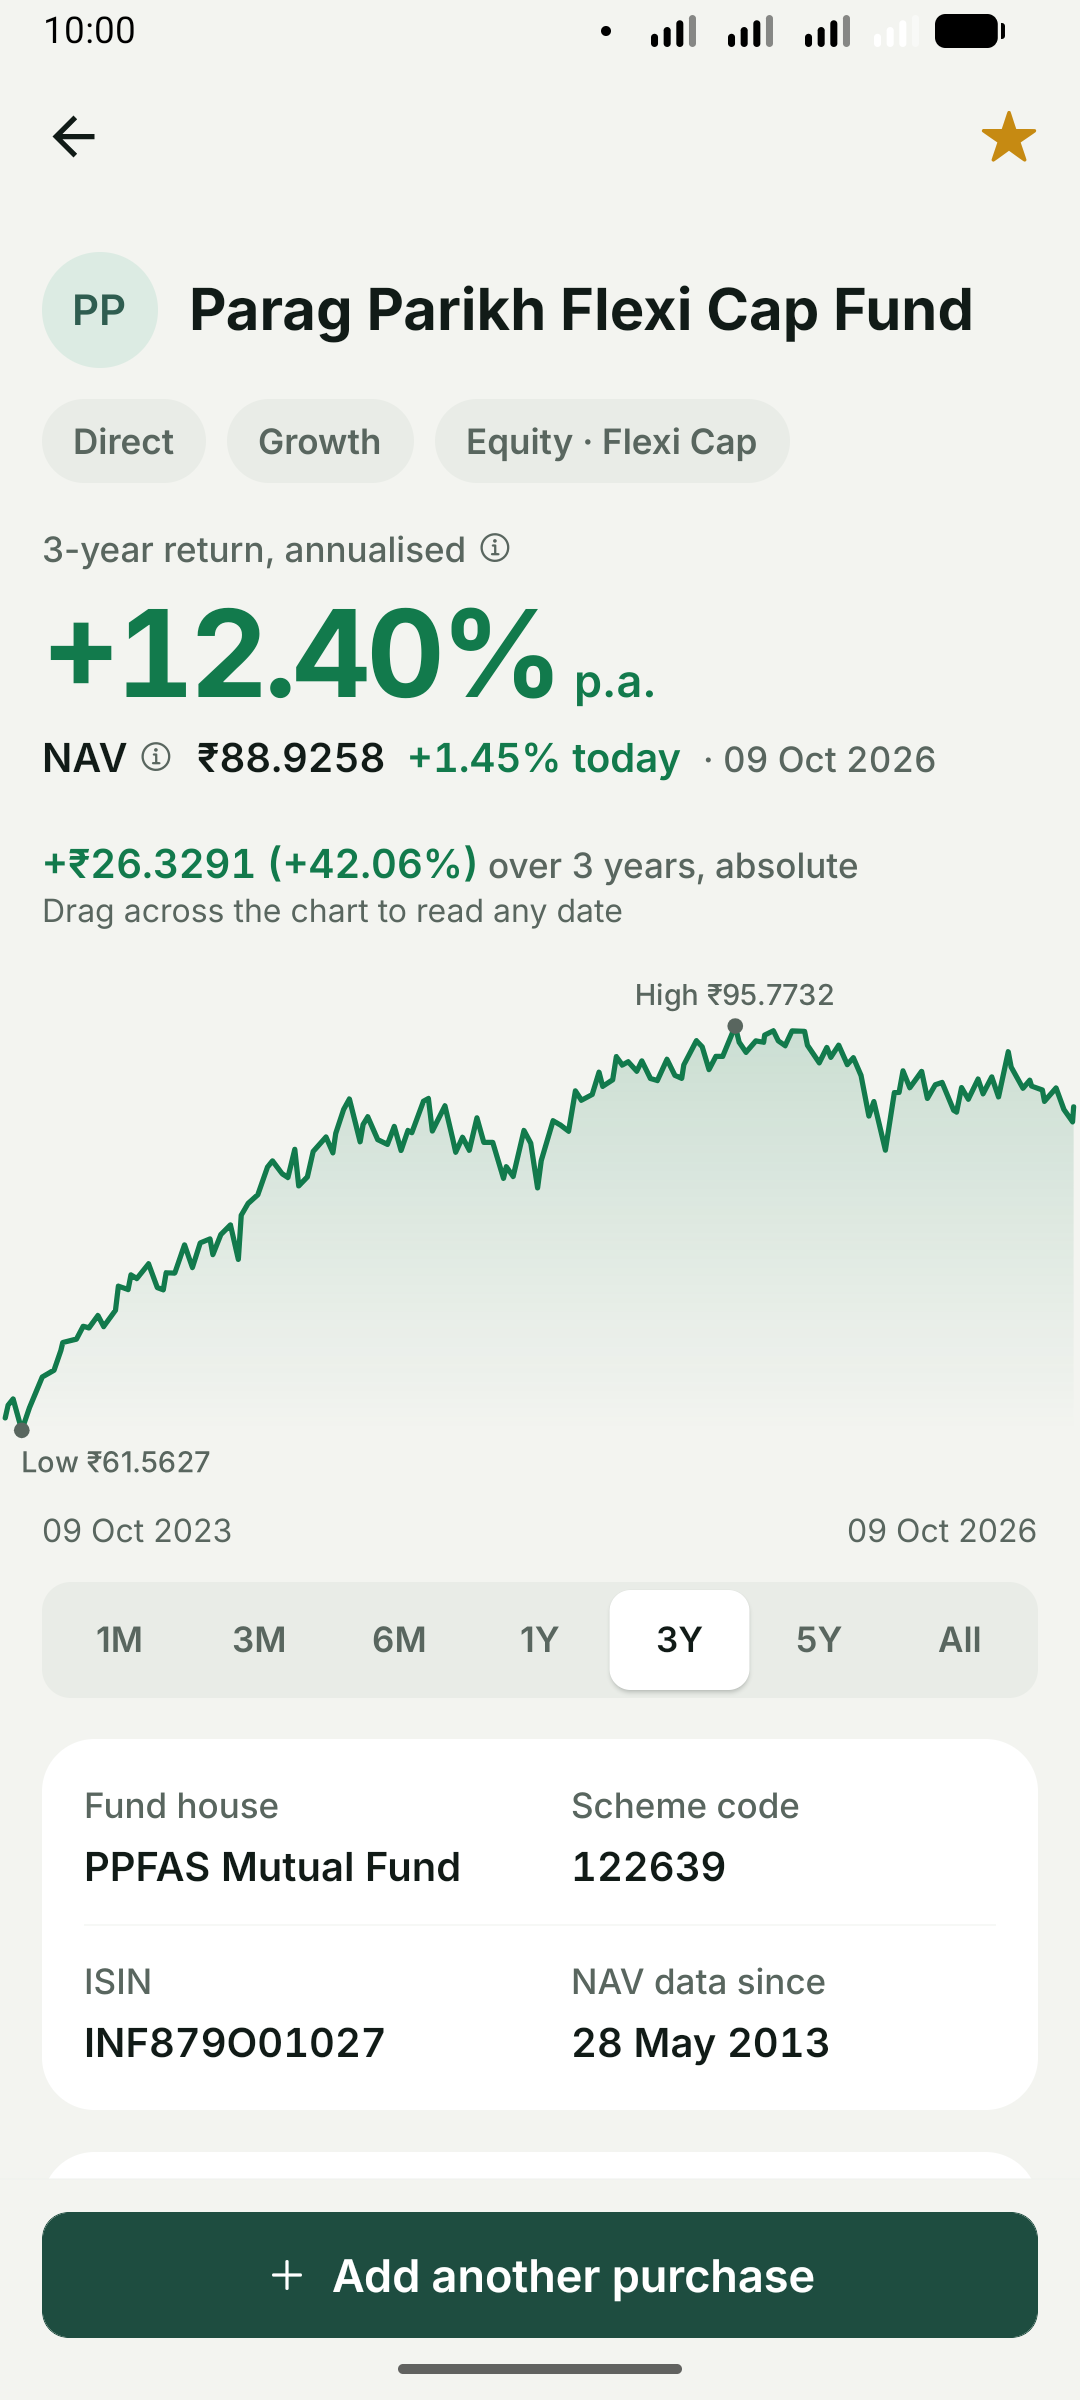
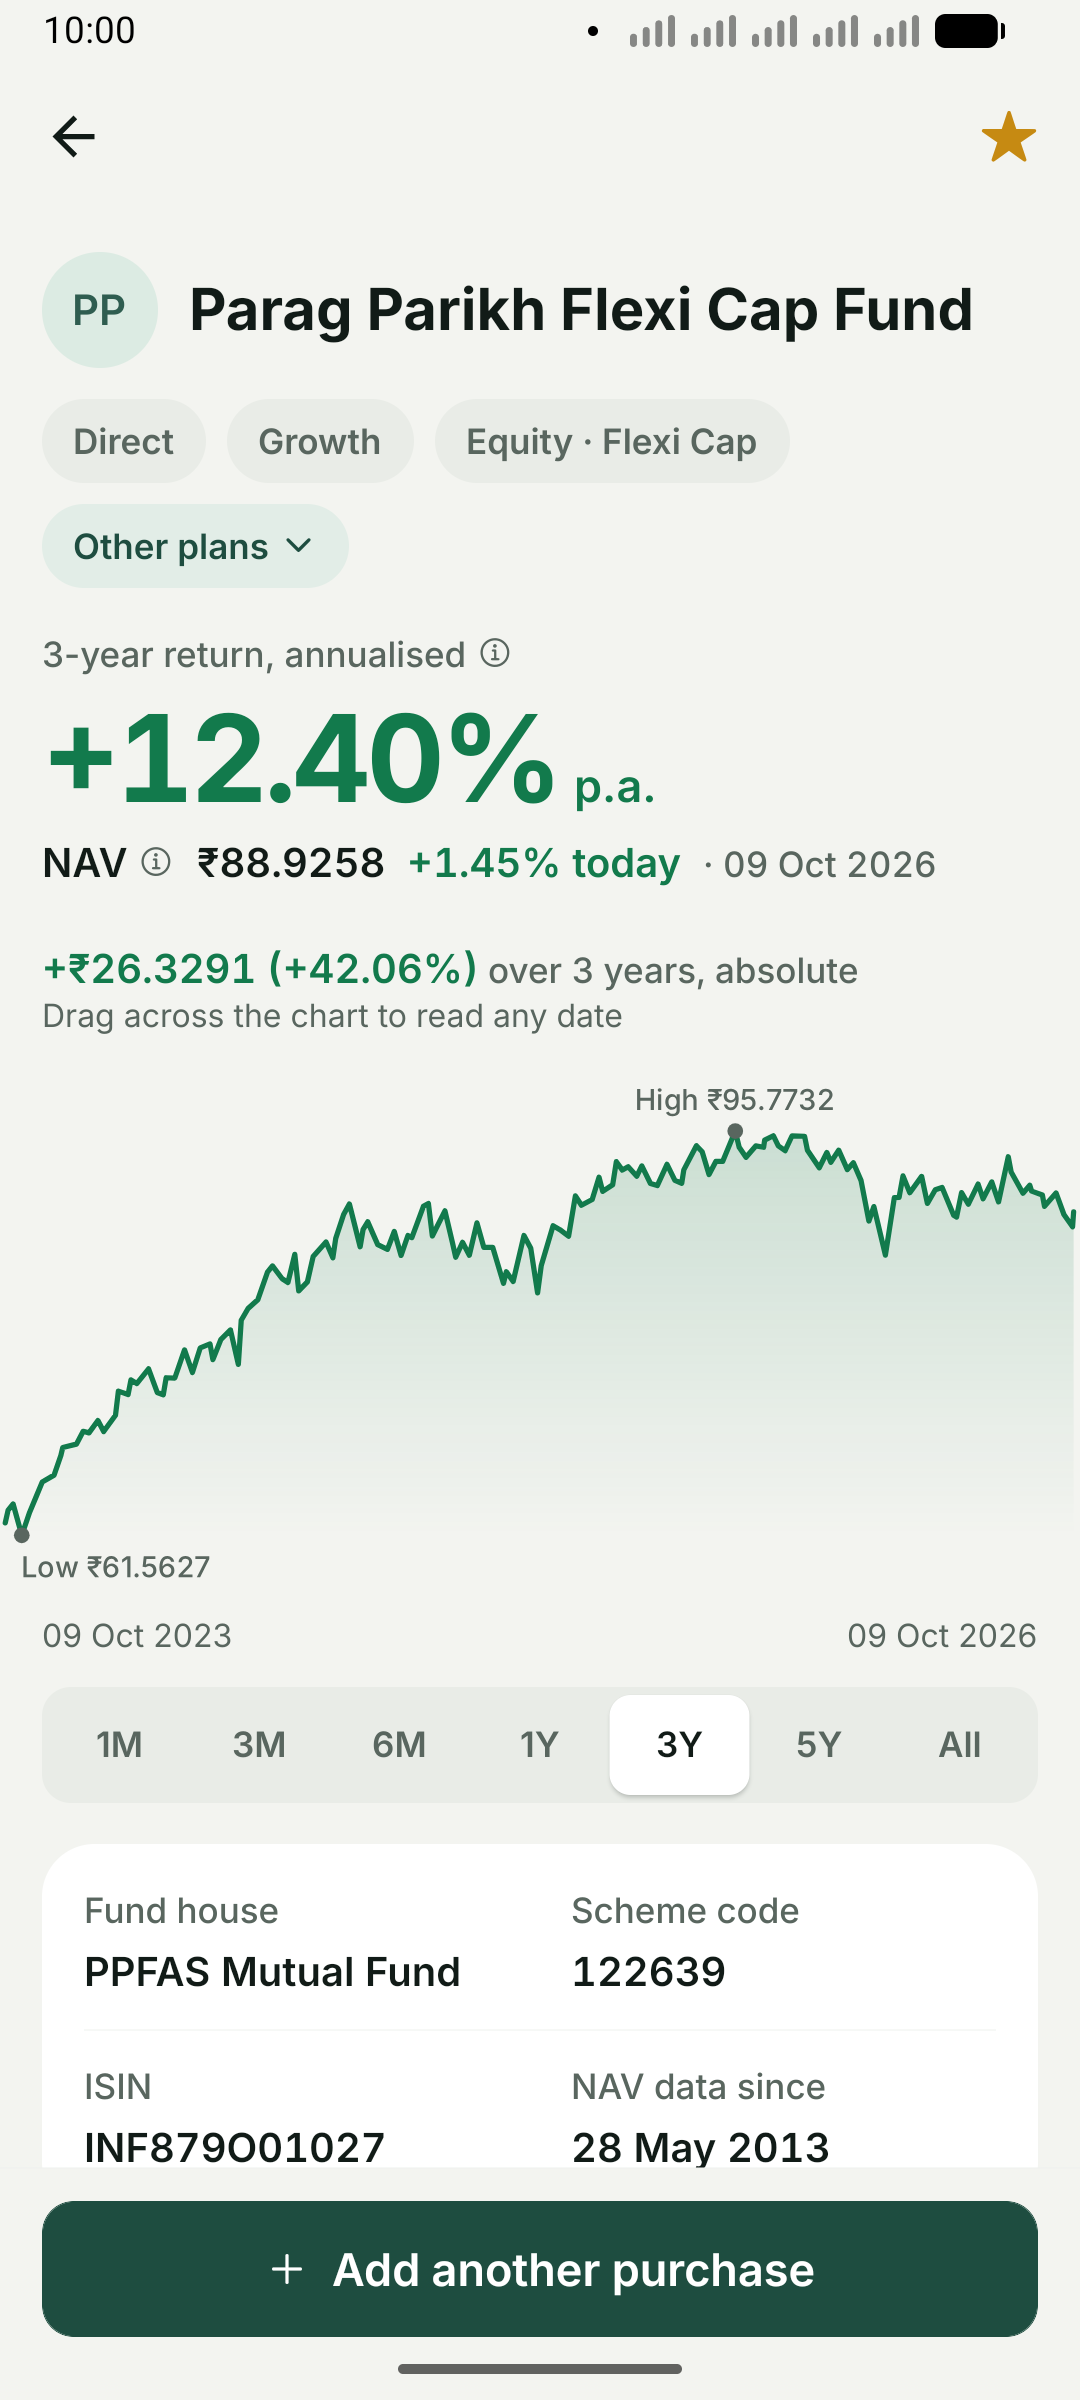
docs: final check - screenshots for the last features, AI_CONTEXT finalised, no placeholders left

diff --git a/docs/BUILD_LOG.md b/docs/BUILD_LOG.md
@@ -264,7 +264,7 @@ Every item was driven on the Android emulator (Expo Go, SDK 57) with adb: deep l
 **Docs**
 - `README.md`: test count, project structure (new `signed` and `holdings` domain files), and a troubleshooting entry for Expo Go's "Failed to download remote update" in airplane mode (with the `adb reverse` workaround). No screenshots section was filled: none were provided.
 - `docs/ARCHITECTURE.md`: test count and what the tests cover; fixed row heights and the 1.3× font cap; list headers in `getItemLayout`; Gesture Handler's `RefreshControl`; the edge-to-edge keyboard; how UI was verified (phone plus adb-driven emulator) and how to test offline cold starts in Expo Go.
-- `AI_CONTEXT.md`: filled from this log. Added how the agent was directed during the build, where AI helped, the list of Claude Code's mistakes and corrections from phases 0–8 (including the three "carry over" items: inline `#` comments in zsh, whole-word search, hand-computed money), and two decisions. The five **[YOU]** markers are left for the user's own words; nothing was invented.
+- `AI_CONTEXT.md`: filled from this log. Added how the agent was directed during the build, where AI helped, the list of Claude Code's mistakes and corrections from phases 0–8 (including the three "carry over" items: inline `#` comments in zsh, whole-word search, hand-computed money), and two decisions. The five author's-own-words sections are left for the user's own words; nothing was invented.
 
 **Final verification**
 - `npm run check`: typecheck 0 errors; 18 suites, 152 tests passed.
@@ -431,7 +431,7 @@ The user asked whether the to-do list held anything I'd found myself; mostly it 
   - Screenshots retaken from the sample portfolio on a cleared emulator, at 1080 × 2400 with a demo status bar and Expo Go's tools button hidden; renumbered 01–09 with Consistency back as `05-consistency.png` (`git mv` for the renamed four).
   - `docs/SECURITY.md` (new): what's stored and where, seven threats with their handling and file references, and residual risks (no encryption beyond the sandbox, plain-text backups, the app switcher, `npm audit`'s 64 advisories in the Expo/Metro toolchain, left unfixed because `--force` downgrades below SDK 57; not traced to the bundle).
   - `docs/DESIGN.md`: the radius scale, the watchlist status slot, NAV dates in lists, the fund hero line, "p.a.", the disclaimers, the sample portfolio, and the motion and haptics map as built (with the P1 changes marked as planned).
-  - `AI_CONTEXT.md` cut from 90 to 60 lines: six corrections kept with one or two lines each, the rest pointed to this log; "with more time" refreshed (it listed things already built); every **[YOU]** marker kept, none filled in.
+  - `AI_CONTEXT.md` cut from 90 to 60 lines: six corrections kept with one or two lines each, the rest pointed to this log; "with more time" refreshed (it listed things already built); every author's-own-words section kept, none filled in.
   - Commit hashes cited in this log are the ones after the history rewrite.
 - **Doc review fixes (claude.ai review of P0-6, passed on by the user).**
   - SECURITY.md: the `npm audit` advisories are now traced against the bundle. Of 64, only five packages have an advisory of their own; four (`braces`, `node-forge`, `sprintf-js`, `uuid`) are CLI and test tooling and never ship; `decode-uri-component` 0.2.2 does ship (expo-router → query-string 7) and is moderate (slow decoding of a malformed link). Fixed upstream in 0.5.0, but an override would cross `query-string`'s expected 0.2.x and `npm audit fix --force` jumps to expo-router 58, so it waits for the SDK 58 upgrade.
@@ -514,3 +514,8 @@ Presentation only: nothing in `src/domain`, `src/api`, `src/query` or `src/store
 - **Learned from an AMC's own app (user's phone, view only; screenshots deleted).** Its returns table switches between CAGR and "current value of ₹10,000"; its fund page lets you switch to the same scheme's other plans from the plan chips. Everything else was on par or not in our data (benchmark, AUM, riskometer, downloads).
 - **Returns: "Return %" or "Value of ₹10,000".** A toggle above the returns. The value view lists what ₹10,000 invested at the start of each period is worth at the latest NAV, from the two NAV strings with BigInt (`tenThousandBecame` in `src/domain/returns.ts`, 2 tests), toned by gain or loss, read as "₹10,000.00 became ₹14,206.15". Checked: the 3-year figure for Parag Parikh Flexi Cap is ₹14,206.15, the same as Compare's growth of ₹10,000 over the same dates.
 - **Fund page: other plans of the same scheme.** An "Other plans ⌄" chip after the plan, option and category chips (which keep opening their glossary entries) appears when the scheme has other plans. It opens a sheet listing them (Direct · IDCW, Regular · Growth, …, with scheme codes and a one-line note on what differs), found by searching the scheme's name and keeping results with the same title (`otherPlans` in `src/domain/search.ts`, 2 tests: same title case aside, Direct Growth first, nothing for a scheme with one plan). Picking one replaces the page with that plan. Checked on the emulator: Parag Parikh Flexi Cap Direct Growth lists three other plans; Regular · Growth opens 122640.
+
+## Final check (12 Oct 2026)
+
+- README screenshots 02, 04 and 07 retaken for the last features (the "Other plans" chip, the returns toggle, the watchlist period button).
+- AI_CONTEXT.md finalised at the user's request: the Draft note and the drafting comments removed; the research-tools line states what is known (three earlier deep-research reports from other AI assistants) without naming tools. Other docs that mentioned the placeholder markers now say "author's-own-words sections". `git grep` finds no "[YOU]", "TODO" or "Draft" outside the lockfile.

diff --git a/AI_CONTEXT.md b/AI_CONTEXT.md
@@ -1,12 +1,10 @@
 # AI_CONTEXT
 
-> **Draft.** The one section marked **[YOU]** needs your own words, and every paragraph marked DRAFT (in an HTML comment) was drafted by Claude for you to rewrite. Everything else is taken from `docs/BUILD_LOG.md`, which has the full record.
-
 ## AI tools used
 
 - **Claude (claude.ai):** research and fact-checking, then writing and testing the domain core (dates, money, NAV rules, the API client, the store's rules); later an audit of the whole app, the polish plan (`docs/POLISH_PLAN.md`) and a review of each Claude Code round before I accepted it.
 - **Claude Code:** building the screens from a phased plan (`docs/BUILD_PROMPT.md`) under project rules in `CLAUDE.md`, then the product, design and polish rounds. I reviewed each phase before the next.
-- **[YOU]** Name the tools behind the three earlier research reports I started from (for example ChatGPT or Gemini deep research).
+- **Earlier AI research reports:** three deep-research reports from other AI assistants, which I started from before any code; what they got wrong is listed below.
 
 ## How I directed them
 
@@ -22,7 +20,6 @@
 - Building screens quickly against a precise spec, and walking through six investor personas (`docs/PERSONAS.md`) to find what was missing.
 - Running the QA I'd otherwise do by hand: deep links into every screen, light and dark, the largest text size, airplane mode, and a 600-purchase stress test with frame timings.
 - A visual pass from a drawn target: Claude in claude.ai drew the redesign, Claude Code built it phase by phase, and I compared each phase on the emulator before accepting it.
-<!-- DRAFT (Claude): rewrite in your own words, and add anything else that saved you time. -->
 
 ## What needed correction
 
@@ -38,7 +35,6 @@ Six examples from the build (the rest are in `docs/BUILD_LOG.md`):
 6. **Invested didn't match the statement.** SIP instalments showed ₹4,999.99 because invested was units × NAV. Statements count the rupees paid, so purchases now store the amount (optional, backward-compatible).
 
 How I caught them: most came from using the app on my phone after each phase. "par" finding nothing made me ask whether search really matched parts of words. The ₹4,999.99 SIP instalment made me ask how real apps count the amount invested, which led to storing what was paid. I also noticed a fund page with no back arrow, an empty tag line on a watchlist row (a scheme whose name has no plan or option), and rows that didn't line up. When I asked whether the to-do list held anything Claude had found itself, it admitted it was mostly my own asks, and only then ran its own audit. The ones that mattered most to me were the money ones: an invested figure that doesn't match the statement, or a rupee value worked out in someone's head, is exactly what a user would stop trusting the app over.
-<!-- DRAFT (Claude): rewrite in your own words; keep only what you actually remember and stand behind. -->
 
 ## Key decisions and trade-offs
 
@@ -57,7 +53,6 @@ All three research reports said a weekend or holiday purchase should use the **n
 The app uses the first NAV on or after the purchase date, and saves a purchase as "Awaiting NAV" until that NAV is published. Trailing returns still use the NAV on or before each date, because they answer a different question. Tests use real dates: Independence Day 2023 maps to 16 Aug, and Good Friday 2024 to Sunday 31 Mar 2024, a real weekend NAV.
 
 A second example: the build plan assumed mfapi.in's search matched parts of words, so the screen promised results after three characters. On my phone "par" returned nothing while "parag" returned 15. Instead of accepting a workaround (downloading all ~40,000 schemes and searching locally), I had Claude Code test the live API and change the copy to say search matches whole words, and lower the minimum to two characters once it found "jm" returns JM Financial's schemes. The constraint is the API's; the app now tells the user about it instead of hiding it.
-<!-- DRAFT (Claude): rewrite in your own words. -->
 
 ## With more time
 

diff --git a/docs/POLISH_PLAN.md b/docs/POLISH_PLAN.md
@@ -94,7 +94,7 @@ The six in `docs/PERSONAS.md` stay, and nothing they found may regress: re-run t
   - a 20–30 s screen recording (`adb shell screenrecord`, converted to a GIF under 8 MB if ffmpeg is installed, otherwise an MP4 linked from the README).
 - DESIGN.md: the boxy radius scale, the Stale slot, the sample portfolio, and section 5's motion and haptic map (open item 9).
 - New `docs/SECURITY.md`, one page: what's stored (holdings on the device, nothing on a server); the threats (lost or unlocked phone, someone looking over a shoulder, a malicious backup, a malicious API response, a malicious deep link, CSV formula injection, dependencies); how each is handled, with file references; residual risks (no encryption at rest beyond the app sandbox, plaintext backups, npm audit warnings in build-time tooling only).
-- AI_CONTEXT.md: cut to a short note (about 70 lines). Keep the six strongest corrections with one line each and point to BUILD_LOG for the rest; refresh "with more time" (CAS import, Maestro end-to-end tests, a development build with app-switcher privacy, multiple portfolios); keep the **[YOU]** markers and write none of their content.
+- AI_CONTEXT.md: cut to a short note (about 70 lines). Keep the six strongest corrections with one line each and point to BUILD_LOG for the rest; refresh "with more time" (CAS import, Maestro end-to-end tests, a development build with app-switcher privacy, multiple portfolios); keep the author's-own-words sections and write none of their content.
 
 ---
 

diff --git a/docs/BUILD_PROMPT.md b/docs/BUILD_PROMPT.md
@@ -238,7 +238,7 @@ Go through the list, fix what fails, and record each fix in the build log.
    Reset the store between tests with `usePortfolioStore.setState({ watchlist: [], lots: [] })`.
 2. **README.md:** update the "Run it" steps if anything changed, and fill in the screenshots section if the user provides images. Keep the requirement-to-implementation table accurate.
 3. **docs/ARCHITECTURE.md:** update it if the implementation differs from it anywhere.
-4. **AI_CONTEXT.md:** fill each section from `docs/BUILD_LOG.md`: real problems, real corrections, real decisions. Leave the `[YOU]` markers for the user to write in their own words. Invent nothing.
+4. **AI_CONTEXT.md:** fill each section from `docs/BUILD_LOG.md`: real problems, real corrections, real decisions. Leave the author's-own-words sections for the user to write in their own words. Invent nothing.
 5. **Final run:** `npm run check`, `npx expo export --platform android`, `npx expo-doctor`, and one full pass through the Phase 7 list on a real phone in Expo Go.
 
 ---

diff --git a/docs/RUNBOOK.md b/docs/RUNBOOK.md
@@ -78,7 +78,7 @@ Every correction you make here belongs in `AI_CONTEXT.md` under "what needed cor
 ## 6. Finish and submit
 
 1. Phase 8 done, `npm run check` green, `npx expo export --platform android` succeeds.
-2. Rewrite every **[YOU]** part of `AI_CONTEXT.md` in your own words, and remove anything you didn't do.
+2. Rewrite every author's-own-words part of `AI_CONTEXT.md` in your own words, and remove anything you didn't do.
 3. Take 3–4 screenshots (Explore, Fund, Watchlist, Holdings), add them to the README if you like, and then delete this runbook if you'd rather not submit it. Keeping it shows how you directed the AI, which the brief asks about.
 4. Do a fresh clone test: `git clone <repo> /tmp/check && cd /tmp/check && npm install && npm run check && npx expo start`.
 5. Push to GitHub (public, or private with access granted), make a ZIP without `node_modules` as a backup, and reply to the email with the link and the run command (`npm install && npx expo start`).
